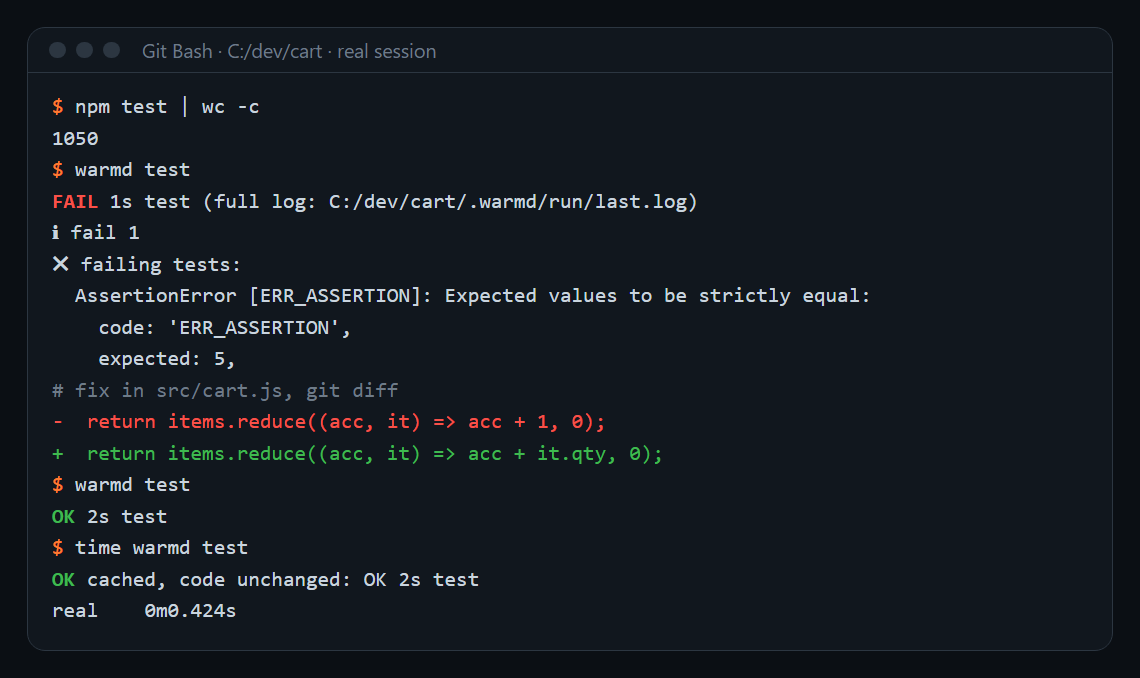
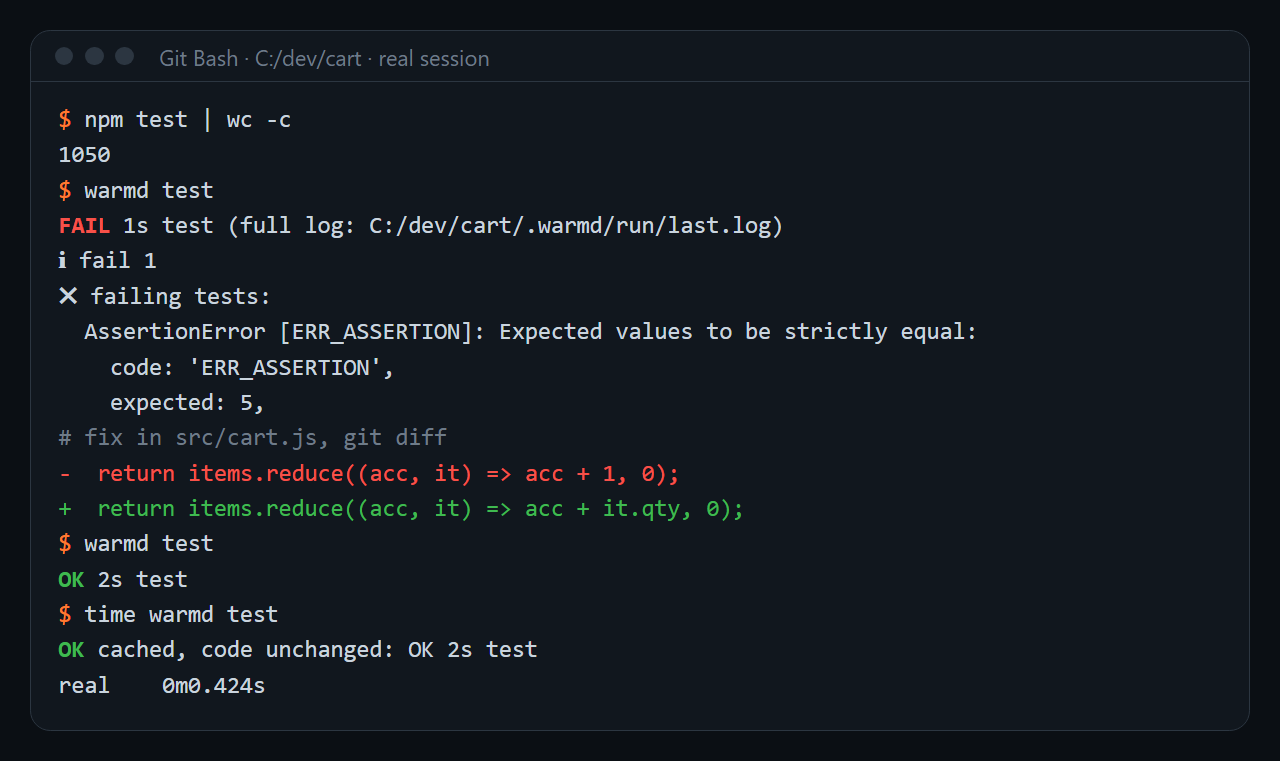
Site images: render.py rebuilds every PNG at 1280 px from its HTML, hero without private names, feature grid from the real code

diff --git a/docs/assets/features.html b/docs/assets/features.html
@@ -1,46 +1,48 @@
 <!doctype html>
 <html><head><meta charset="utf-8"><style>
 *{box-sizing:border-box;margin:0}
-html,body{width:1280px;height:1032px;overflow:hidden}
+html,body{width:1280px;height:1040px;overflow:hidden}
 body{background:#0b0f14;color:#e6edf3;font-family:"Segoe UI",system-ui,sans-serif;padding:44px 56px;position:relative}
 body:before{content:"";position:absolute;inset:0;background:radial-gradient(900px 520px at 88% 0%,rgba(255,122,48,.18),transparent 62%)}
 body>*{position:relative}
 .logo{font:800 30px/1 "Segoe UI",system-ui;letter-spacing:-1px}.logo span{color:#ff7a30}
 h1{font-size:40px;line-height:1.15;letter-spacing:-.8px;font-weight:700;margin-top:12px}
 .card{background:#11171e;border:1px solid #2c3641;border-radius:16px}
-h2{font-size:18px;letter-spacing:1.5px;text-transform:uppercase;color:#ff7a30;margin:26px 0 12px}
+h2{font-size:18px;letter-spacing:1.5px;text-transform:uppercase;color:#ff7a30;margin:22px 0 10px}
 .grid{display:grid;grid-template-columns:repeat(4,1fr);gap:12px}
-.k{padding:14px 18px;font-size:19px;line-height:1.3;color:#9aa7b4}
-.k b{display:block;color:#e6edf3;font-size:23px;margin-bottom:4px}
+.k{padding:14px 18px;font-size:18px;line-height:1.3;color:#9aa7b4;min-height:98px}
+.k b{display:block;color:#e6edf3;font-size:22px;margin-bottom:4px}
 </style></head><body>
 <div class="logo">warm<span>d</span></div>
-<h1>Fast by default, safe by design.</h1>
-<h2>Functions</h2><div class="grid">
- <div class="card k"><b>Runs itself</b>Hooks resume, record and merge</div>
- <div class="card k"><b>Warm engine</b>Editor or dev server stays open</div>
- <div class="card k"><b>Green cache</b>Unchanged code, no rerun</div>
- <div class="card k"><b>Affected tests</b>Only tests the change touches</div>
- <div class="card k"><b>Short output</b>One line green, errors on red</div>
- <div class="card k"><b>Model routing</b>Cheapest tier, steps up on failure</div>
- <div class="card k"><b>Parallel agents</b>One worktree each, shared brief</div>
- <div class="card k"><b>Wakes stalled agents</b>Caught after 5 min without movement</div>
- <div class="card k"><b>Merges with rollback</b>Red result is undone</div>
- <div class="card k"><b>Real tokens and dollars</b>Read from transcripts, offline</div>
- <div class="card k"><b>Slim start</b>Cheapest tool set per agent</div>
- <div class="card k"><b>Layout check</b>Clipped or overlapping boxes as text</div>
- <div class="card k"><b>Screenshots</b>Desktop and 390 px phone</div>
- <div class="card k"><b>Performance baseline</b>Refuses a regression above 5%</div>
- <div class="card k"><b>Handoff</b>Fresh agent continues when context fills</div>
- <div class="card k"><b>Outline</b>Map of a file instead of the whole file</div>
+<h1>Everything runs by itself.</h1>
+<h2>Tests and builds</h2><div class="grid">
+ <div class="card k"><b>Warm engine</b>Unity editor or dev server stays open</div>
+ <div class="card k"><b>Green cache</b>Unchanged code answers in 0.43&nbsp;s</div>
+ <div class="card k"><b>Affected tests</b>Import graph for JS, Python, C#, GDScript</div>
+ <div class="card k"><b>Error-only output</b>One line on green, the cause on red</div>
+ <div class="card k"><b>Faster path</b>Full suite when it beats the selection</div>
+ <div class="card k"><b>Time lapse</b>Unity PlayMode test 54&nbsp;s to 8&nbsp;s</div>
+ <div class="card k"><b>Screenshots, layout</b>Desktop and phone, problems as text</div>
+ <div class="card k"><b>Performance baseline</b>Refuses a slowdown above 5%</div>
 </div>
-<h2>Protection</h2><div class="grid">
- <div class="card k"><b>Clean checkout</b>A merge starts only from clean</div>
- <div class="card k"><b>Merge lock</b>No foreign runs mid-merge</div>
- <div class="card k"><b>Queue</b>At most two heavy runs</div>
- <div class="card k"><b>One job per daemon</b>No lost results</div>
- <div class="card k"><b>Caller gone</b>The run ends itself</div>
- <div class="card k"><b>Idle end</b>Daemon stops after 30 min</div>
- <div class="card k"><b>No network</b>No telemetry</div>
- <div class="card k"><b>Own processes only</b>Your open editor is never killed</div>
+<h2>Agents</h2><div class="grid">
+ <div class="card k"><b>Model routing</b>Cheapest tier that fits the task</div>
+ <div class="card k"><b>Escalation</b>Next tier after a real failure</div>
+ <div class="card k"><b>Handoff</b>Fresh agent at 70% of the budget</div>
+ <div class="card k"><b>Wake on stall</b>Idle 5&nbsp;min: its next step is named</div>
+ <div class="card k"><b>Shared brief</b>One agent finds it, no one searches again</div>
+ <div class="card k"><b>Repo map</b>Most used symbols in one short map</div>
+ <div class="card k"><b>Lean start</b>3,762 start tokens instead of 15,334</div>
+ <div class="card k"><b>Cost ledger</b>Real tokens per task, tier and outcome</div>
+</div>
+<h2>Merge, CI and machine</h2><div class="grid">
+ <div class="card k"><b>Merge with rollback</b>Red result is reset, base stays green</div>
+ <div class="card k"><b>One PR per batch</b>CI wait with ETA, ends on first red</div>
+ <div class="card k"><b>Full suite on CI</b>Heavy suites run on CI, not on this PC</div>
+ <div class="card k"><b>Resumes itself</b>Hooks pick up after restart or compaction</div>
+ <div class="card k"><b>RAM wait</b>Heavy start waits for 15% free RAM</div>
+ <div class="card k"><b>Queue</b>One heavy run per 4 cores and 8&nbsp;GB</div>
+ <div class="card k"><b>Own processes only</b>An editor you opened is never touched</div>
+ <div class="card k"><b>No telemetry</b>Sends nothing to anyone</div>
 </div>
 </body></html>

diff --git a/docs/assets/hero.html b/docs/assets/hero.html
@@ -9,9 +9,9 @@ body:before{content:"";position:absolute;inset:0;background:radial-gradient(900p
 .logo{font:800 92px/1 "Segoe UI",system-ui;letter-spacing:-3px}
 .logo span{color:#ff7a30}
 h1{font-size:43px;line-height:1.14;letter-spacing:-.8px;margin-top:22px;font-weight:700}
-.sub{color:#9aa7b4;font-size:23px;line-height:1.38;margin-top:20px}
-.stacks{display:flex;gap:10px;margin-top:auto;flex-wrap:wrap}
-.stacks b{font-size:19px;font-weight:600;padding:8px 15px;border:1px solid #2c3641;border-radius:9px;color:#d2dae2}
+.sub{color:#9aa7b4;font-size:22px;line-height:1.4;margin-top:20px}
+.stacks{display:flex;gap:8px;margin-top:auto;flex-wrap:wrap}
+.stacks b{font-size:18px;font-weight:600;padding:7px 13px;border:1px solid #2c3641;border-radius:9px;color:#d2dae2}
 .term{background:#11171e;border:1px solid #2c3641;border-radius:16px;padding:16px 26px;font:20px/1.6 Consolas,"Cascadia Mono",monospace}
 .dots{display:flex;gap:9px;margin-bottom:18px}.dots i{width:13px;height:13px;border-radius:50%;background:#3a4552}
 .c{color:#6e7c8a}.p{color:#ff7a30}.g{color:#3fd07f}.r{color:#ff6b6b}
@@ -23,13 +23,13 @@ h1{font-size:43px;line-height:1.14;letter-spacing:-.8px;margin-top:22px;font-wei
 </style></head><body>
 <div class="left">
   <div class="logo">warm<span>d</span></div>
-  <h1>Your AI agent should not wait for the engine.</h1>
-  <p class="sub">A headless daemon and one-command CLI that make every test run cheap in time and tokens.</p>
-  <div class="stacks"><b>Unity</b><b>Godot</b><b>Web</b><b>Any test suite</b></div>
+  <h1>Your coding agent should not wait for the engine.</h1>
+  <p class="sub">Warm engines, cached green runs, error-only output, cheapest-fit models and merges that roll back on red. Install once, it runs itself.</p>
+  <div class="stacks"><b>Unity</b><b>Godot</b><b>Web</b><b>Python</b><b>Rust</b><b>Go</b><b>.NET</b></div>
 </div>
 <div class="stats">
-  <div class="card"><div class="n">95%</div><div class="l">faster Unity tests</div><div class="m">56 s &rarr; 3 s, large HDRP project</div></div>
-  <div class="card"><div class="n">99%</div><div class="l">fewer tokens per green Unity run</div><div class="m">33 KB log &rarr; 41 bytes</div></div>
-  <div class="term"><span class="p">$</span> warmd test TourRulesTests<br><span class="g">OK 3s test</span> <span class="c">warm editor, large project</span><br><span class="g">8 passed, 0 failed</span></div>
+  <div class="card"><div class="n">95%</div><div class="l">faster Unity test class</div><div class="m">56 s &rarr; 3 s, large HDRP project</div></div>
+  <div class="card"><div class="n">98%</div><div class="l">fewer tokens per green run</div><div class="m">web 289 &rarr; 6, Python 309 &rarr; 6</div></div>
+  <div class="card"><div class="n">26%</div><div class="l">fewer tokens per agent fix</div><div class="m">web bug, 5 runs per arm, 5 of 5 fixed</div></div>
 </div>
 </body></html>

diff --git a/docs/assets/speed.html b/docs/assets/speed.html
@@ -23,16 +23,16 @@ h1{font-size:40px;line-height:1.15;letter-spacing:-.8px;font-weight:700;margin-t
 <h1>Same tests, a fraction of the wait.</h1>
 <div class="rows">
 <div class="card row"><div class="t">Unity, one test class<small>large HDRP project</small></div>
-  <div class="b"><i>before</i><div class="tr"><div class="bar bef" data-v="56" style="width:82.0%"></div><span class="num">56 s</span></div></div>
+  <div class="b"><i>before</i><div class="tr"><div class="bar bef" data-v="56" style="width:82.0000%"></div><span class="num">56 s</span></div></div>
   <div class="b"><i>warmd</i><div class="tr"><div class="bar aft" data-v="3" style="width:4.3929%"></div><span class="num">3 s</span></div></div>
 </div>
 <div class="card row"><div class="t">Unity, full PlayMode test<small>same project</small></div>
-  <div class="b"><i>before</i><div class="tr"><div class="bar bef" data-v="54" style="width:82.0%"></div><span class="num">54 s</span></div></div>
+  <div class="b"><i>before</i><div class="tr"><div class="bar bef" data-v="54" style="width:82.0000%"></div><span class="num">54 s</span></div></div>
   <div class="b"><i>warmd</i><div class="tr"><div class="bar aft" data-v="26" style="width:39.4815%"></div><span class="num">26 s</span></div></div>
   <div class="b"><i>--speed 8</i><div class="tr"><div class="bar aft" data-v="8" style="width:12.1481%"></div><span class="num">8 s</span></div></div>
 </div>
 <div class="card row"><div class="t">Repeat run, code unchanged<small>green results are cached</small></div>
-  <div class="b"><i>before</i><div class="tr"><div class="bar bef" data-v="3" style="width:82.0%"></div><span class="num">3 s</span></div></div>
+  <div class="b"><i>before</i><div class="tr"><div class="bar bef" data-v="3" style="width:82.0000%"></div><span class="num">3 s</span></div></div>
   <div class="b"><i>warmd</i><div class="tr"><div class="bar aft" data-v="0.4" style="width:10.9333%"></div><span class="num">0.4 s</span></div></div>
 </div>
 </div>

diff --git a/docs/assets/tokens.html b/docs/assets/tokens.html
@@ -23,15 +23,15 @@ h1{font-size:40px;line-height:1.15;letter-spacing:-.8px;font-weight:700;margin-t
 <h1>The agent reads the error, not the log.</h1>
 <div class="rows">
 <div class="card row"><div class="t">Unity, green run<small>per test run</small></div>
-  <div class="b"><i>raw</i><div class="tr"><div class="bar bef" data-v="33323" style="width:82.0%"></div><span class="num">33,323 bytes</span></div></div>
+  <div class="b"><i>raw</i><div class="tr"><div class="bar bef" data-v="33323" style="width:82.0000%"></div><span class="num">33,323 bytes</span></div></div>
   <div class="b"><i>warmd</i><div class="tr"><div class="bar aft" data-v="41" style="width:0.1009%"></div><span class="num">41 bytes</span></div></div>
 </div>
 <div class="card row"><div class="t">Web, red run<small>Vitest, real tokens</small></div>
-  <div class="b"><i>raw</i><div class="tr"><div class="bar bef" data-v="714" style="width:82.0%"></div><span class="num">714 tokens</span></div></div>
+  <div class="b"><i>raw</i><div class="tr"><div class="bar bef" data-v="714" style="width:82.0000%"></div><span class="num">714 tokens</span></div></div>
   <div class="b"><i>warmd</i><div class="tr"><div class="bar aft" data-v="136" style="width:15.6190%"></div><span class="num">136 tokens</span></div></div>
 </div>
 <div class="card row"><div class="t">Python, red run<small>pytest, real tokens</small></div>
-  <div class="b"><i>raw</i><div class="tr"><div class="bar bef" data-v="479" style="width:82.0%"></div><span class="num">479 tokens</span></div></div>
+  <div class="b"><i>raw</i><div class="tr"><div class="bar bef" data-v="479" style="width:82.0000%"></div><span class="num">479 tokens</span></div></div>
   <div class="b"><i>warmd</i><div class="tr"><div class="bar aft" data-v="153" style="width:26.1921%"></div><span class="num">153 tokens</span></div></div>
 </div>
 </div>

diff --git a/docs/assets/render.py b/docs/assets/render.py
@@ -1,0 +1,77 @@
+"""Rebuild every image in docs/assets from its HTML source.
+
+    python docs/assets/render.py            # all images
+    python docs/assets/render.py speed      # one image
+
+Each HTML file sets its own size on html,body. The PNG is always 1280 px wide: a smaller page is rendered at a
+higher device scale, so text stays sharp and every image in the README has the same width.
+Bars: every element with data-v gets a width proportional to the largest data-v of its card (class "card"),
+the largest bar is 82%. tests/bars.sh checks the result. Needs Chrome, Edge or Chromium (WARMD_BROWSER wins).
+"""
+import os
+import re
+import shutil
+import subprocess
+import sys
+import tempfile
+
+HERE = os.path.dirname(os.path.abspath(__file__))
+WIDTH = 1280
+# source html -> png name; proof-*.png are real warmd shot captures and are never rendered
+PAGES = {"hero": "social", "demo": "demo", "speed": "speed", "tokens": "tokens", "flow": "flow", "features": "features"}
+
+
+def browser():
+    cands = [os.environ.get("WARMD_BROWSER", "")]
+    for base in (os.environ.get("ProgramFiles", r"C:\Program Files"), os.environ.get("ProgramFiles(x86)", r"C:\Program Files (x86)"),
+                 os.environ.get("LOCALAPPDATA", "")):
+        cands += [os.path.join(base, r"Google\Chrome\Application\chrome.exe"), os.path.join(base, r"Microsoft\Edge\Application\msedge.exe")]
+    cands += [shutil.which(n) or "" for n in ("chrome", "msedge", "chromium", "google-chrome")]
+    for c in cands:
+        if c and os.path.isfile(c):
+            return c
+    sys.exit("no Chrome, Edge or Chromium found, set WARMD_BROWSER")
+
+
+def scale_bars(html):
+    out, cards = [], re.split(r'(?=<div class="card)', html)
+    for card in cards:
+        vals = [float(v) for v in re.findall(r'data-v="([0-9.]+)"', card)]
+        if vals:
+            top = max(vals)
+            card = re.sub(r'data-v="([0-9.]+)" style="width:[0-9.]+%"',
+                          lambda m: 'data-v="%s" style="width:%.4f%%"' % (m.group(1), 82.0 * float(m.group(1)) / top), card)
+        out.append(card)
+    return "".join(out)
+
+
+def size(html):
+    m = re.search(r"html,body\{width:(\d+)px;height:(\d+)px", html)
+    if not m:
+        sys.exit("html,body{width:..px;height:..px} missing")
+    return int(m.group(1)), int(m.group(2))
+
+
+def render(name, exe):
+    src = os.path.join(HERE, name + ".html")
+    with open(src, encoding="utf-8") as f:
+        html = f.read()
+    new = scale_bars(html)
+    if new != html:
+        with open(src, "w", encoding="utf-8", newline="\n") as f:
+            f.write(new)
+    w, h = size(new)
+    scale = WIDTH / w
+    png = os.path.join(HERE, PAGES[name] + ".png")
+    with tempfile.TemporaryDirectory() as prof:
+        subprocess.run([exe, "--headless=new", "--disable-gpu", "--hide-scrollbars", "--no-first-run", "--user-data-dir=" + prof,
+                        "--force-device-scale-factor=%g" % scale, "--window-size=%d,%d" % (w, h),
+                        "--default-background-color=0b0f14ff", "--screenshot=" + png, "file:///" + src.replace("\\", "/")],
+                       check=True, stdout=subprocess.DEVNULL, stderr=subprocess.DEVNULL, timeout=60)
+    print("ok   %s.png %dx%d" % (PAGES[name], round(w * scale), round(h * scale)))
+
+
+if __name__ == "__main__":
+    exe = browser()
+    for n in (sys.argv[1:] or PAGES):
+        render(n, exe)
